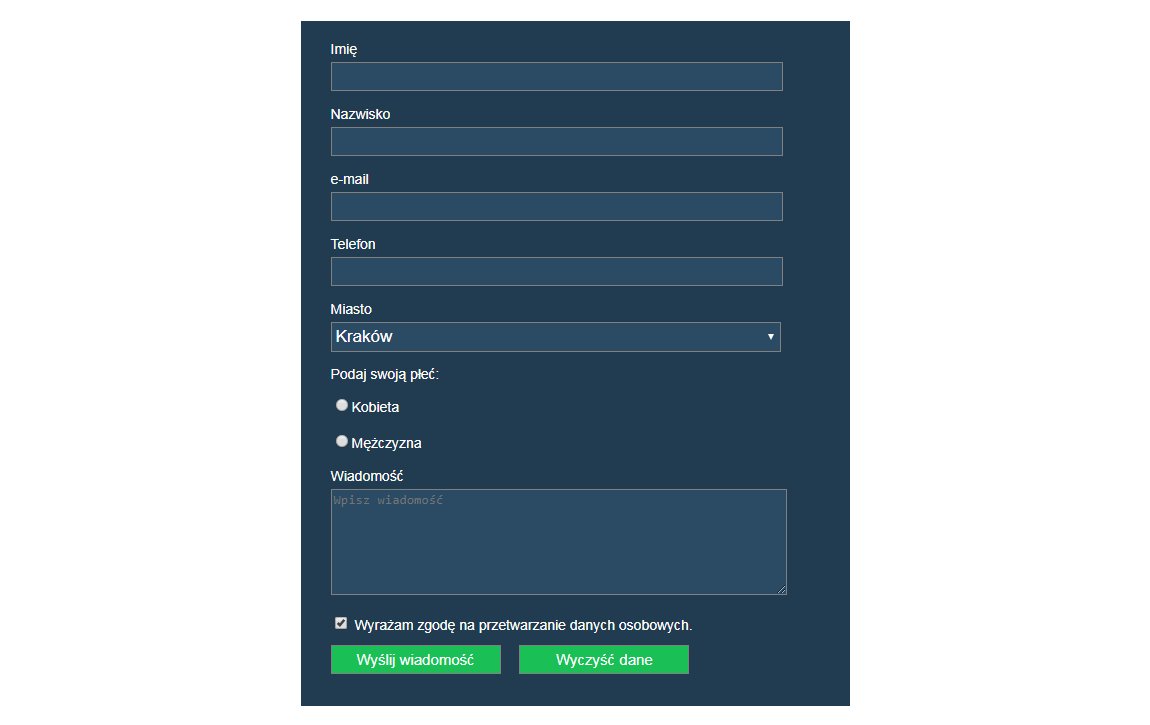
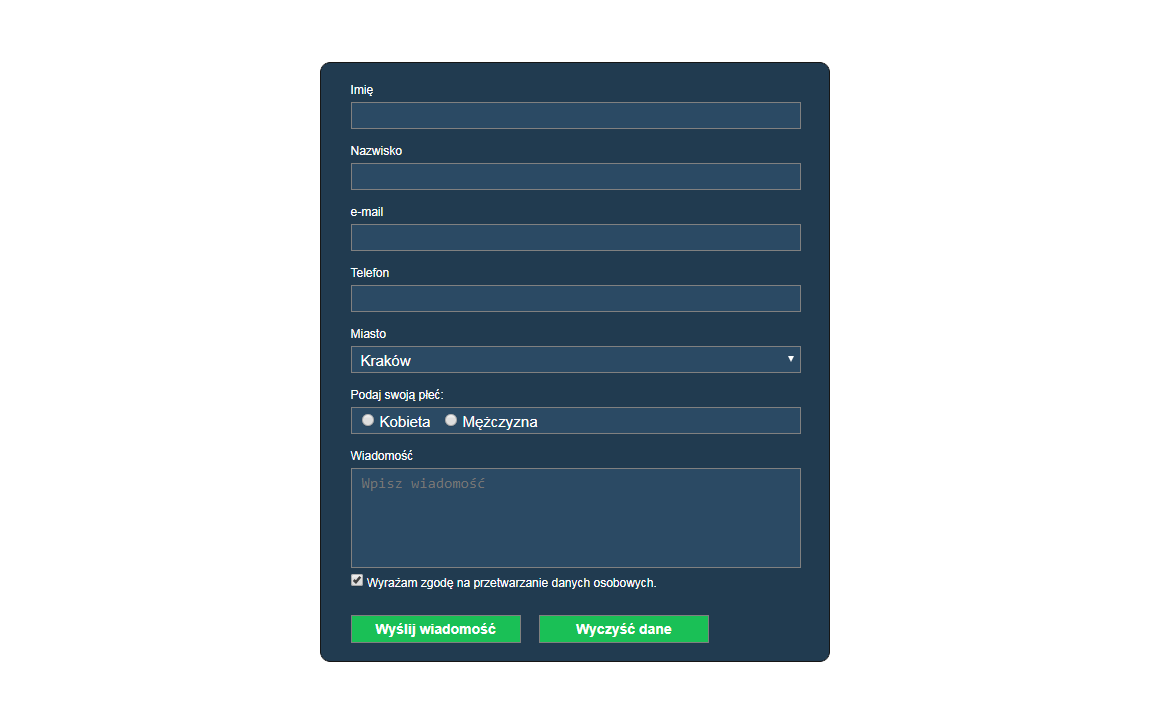
code review

Changed region(s): [[0.2435, 0.0303, 0.7609, 0.971]]

diff --git a/css/style.css b/css/style.css
@@ -15,9 +15,10 @@ form {
     font-size: 12px;
     width: 510px;
     height: 600px;
-    padding: 20px;
-    padding-left: 30px;
-    margin: 20px auto 20px auto;
+    border-radius: 10px;
+    border: 1px solid #000000;
+    padding: 20px 20px 20px 30px;
+    margin: 30px auto 20px auto;
 }
 
 form label,
@@ -29,31 +30,29 @@ form .label {
 form textarea {
     width: 450px;
     height: 100px;
-    background-color: #2b4a64;
-    color: #ffffff;
-    border: none;
-    padding-left: 10px;
-    font-size: 15px;
+    padding: 5px 0 0 10px;
+    overflow: hidden;
+    resize: none;
 }
 
 form textarea, 
 form input,
 form select,
 form .gender {
-    border: 1px solid gray;
+    border: 1px solid #808080;
+    background-color: #2b4a64;
+    color: #ffffff;
+    font-size: 15px;
 }
 
 form input[type="text"],
 form input[type="email"],
 form select,
 form .gender {
-    background-color: #2b4a64;
     width: 450px;
-    height: 25px;
-    color: #ffffff;
-    font-size: 15px;
+    height: 27px;
     margin-bottom: 15px;
-    padding-left: 10px;
+    padding: 1px 0 0 10px;
 }
 
 form select {
@@ -78,11 +77,12 @@ form input[type="submit"],
 form input[type="reset"] {
     padding: 5px;
     background-color: #1ac056;
-    color: #fff;
+    /* color: #ffffff; */
     width: 170px;
-    margin: 25px 15px 5px 0;
+    margin: 20px 15px 5px 0;
     display: inline-block;
-    font-size: 15px;
+    font-size: 14px;
+    font-weight: bold;
 }
 
 form label[for="zgoda-dane"] {
@@ -90,7 +90,9 @@ form label[for="zgoda-dane"] {
     margin-top: 5px;
 }
 
-form input:focus, 
+/* form input:focus,  */
+form input[type="submit"]:hover, 
+form input[type="reset"]:hover,
 form textarea:focus, 
 form select:focus,
 form .gender:active {

diff --git a/index.html b/index.html
@@ -13,16 +13,16 @@
         
         <!-- Wprowadzanie danych osobowych -->
         <label for="name">Imię</label>
-        <input type="text" name="Imię:" id="name" required/><br>
+        <input type="text" name="Imię:" id="name" autocomplete="off" required/><br>
                 
         <label for="surname">Nazwisko</label>
-        <input type="text" name="Nazwisko:" id="surname" required/><br>
+        <input type="text" name="Nazwisko:" id="surname" autocomplete="off" required/><br>
             
         <label for="email">e-mail</label>
-        <input type="email" name="e-mail:" id="email" required/><br>
+        <input type="email" name="e-mail:" id="email" autocomplete="off" required/><br>
         
         <label for="tel">Telefon</label>
-        <input type="text" name="Telefon:" id="tel" required/><br>       
+        <input type="text" name="Telefon:" id="tel" autocomplete="off" required/><br>       
         <!-- Wprowadzanie danych osobowych - End -->
         
         <!-- Wybów miasta -->
